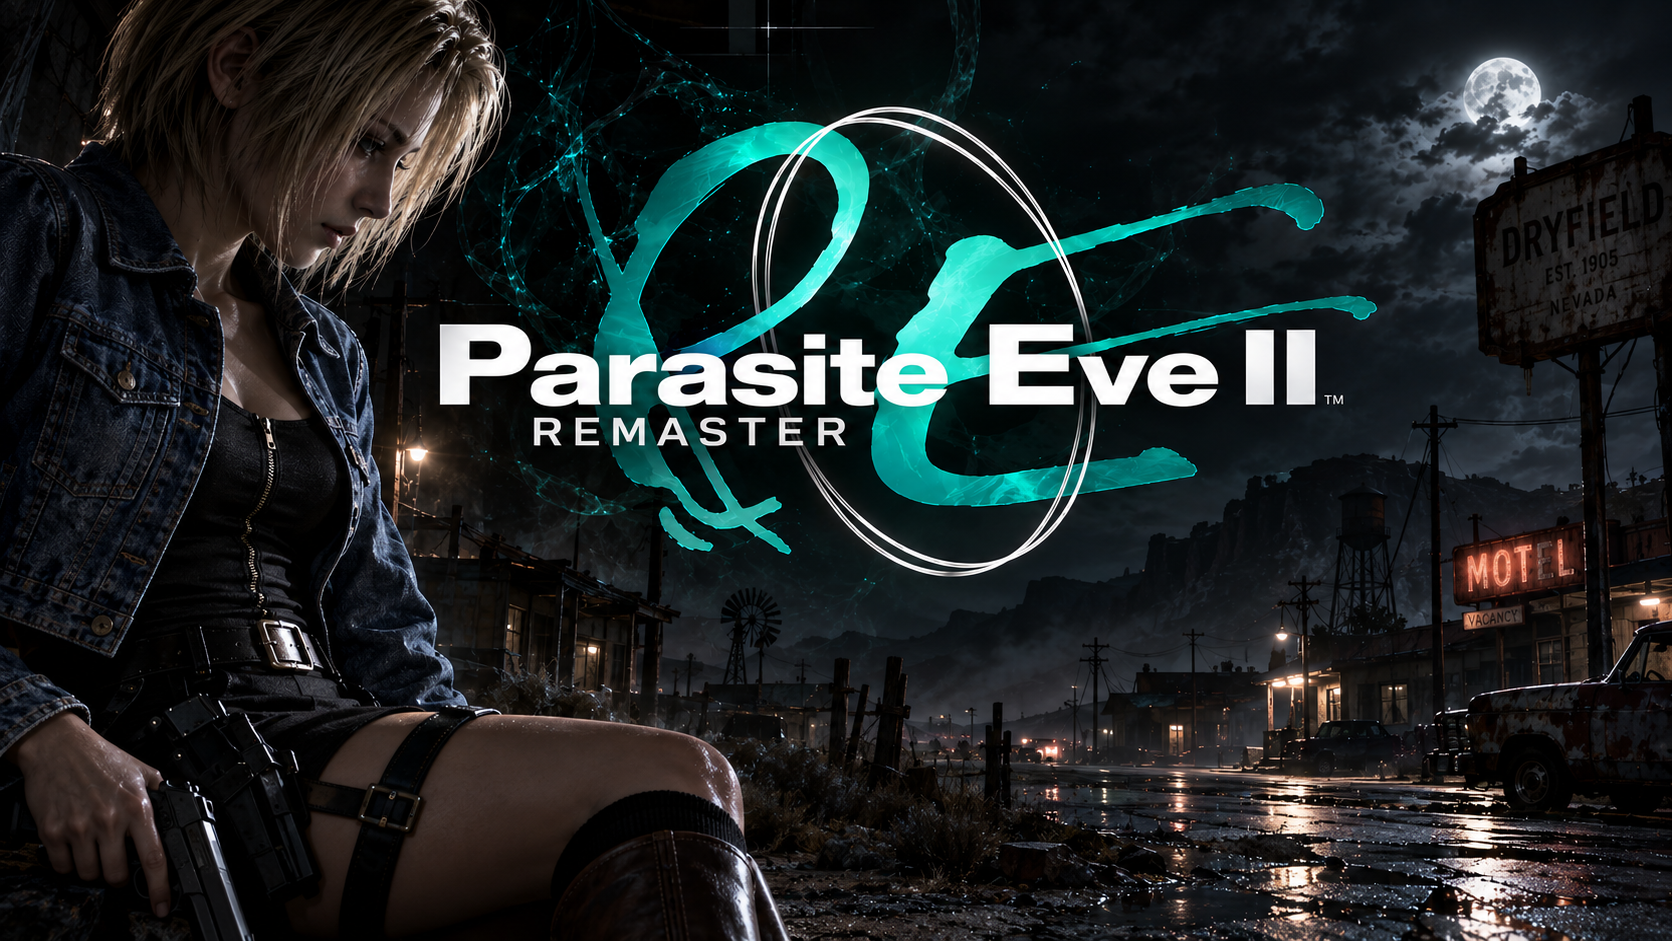
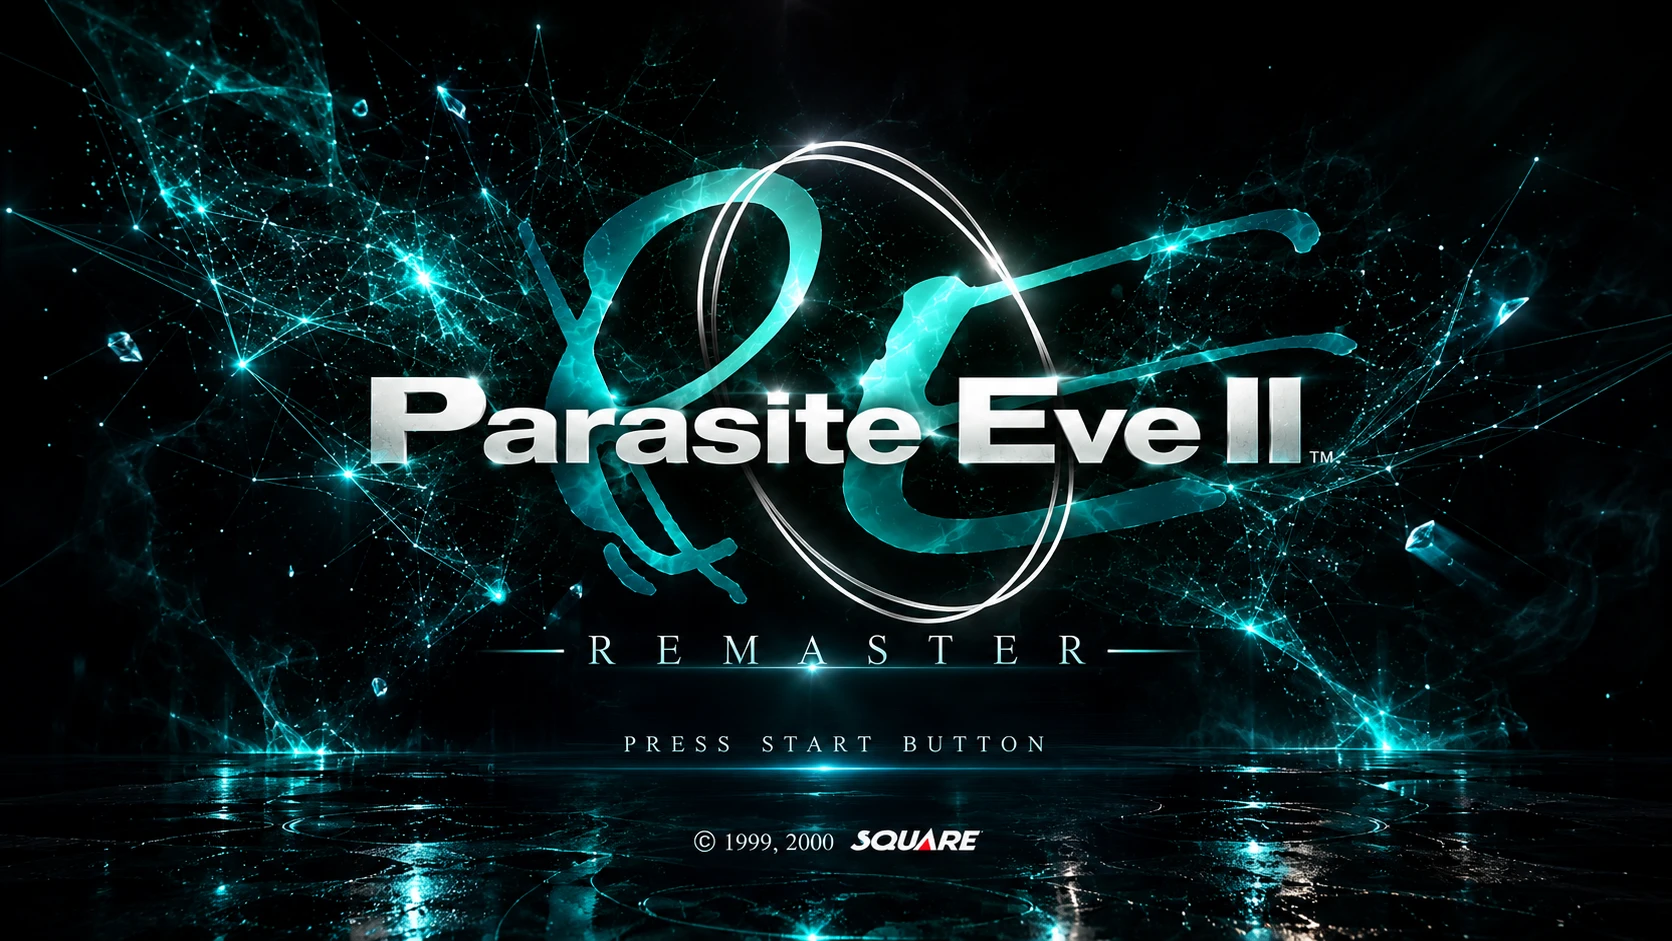
Replace the cover with the title screen and withdraw the character concept sheets

diff --git a/README.fr.md b/README.fr.md
@@ -1,8 +1,8 @@
 <p align="center">
-  <img src="media/cover.png" alt="Parasite Eve II Remaster — couverture conceptuelle avec Aya à Dryfield" width="100%">
+  <img src="media/cover.png" alt="Parasite Eve II Remaster — écran titre" width="100%">
 </p>
 
-<p align="center"><sub>Illustration conceptuelle générée par IA · Direction visuelle · Ce n’est pas une capture du jeu</sub></p>
+<p align="center"><sub>Écran titre</sub></p>
 
 <h1 align="center">PARASITE EVE II · REMASTER</h1>
 
@@ -125,21 +125,6 @@ L’armurerie, avec le même cadre 4:3 :
 [![Armurerie — 16:9 avec la zone de référence 4:3 délimitée](media/wide/mist-armoury-guide.png)](media/wide/mist-armoury-16x9.png)
 
 [Autres vues en 16:9 : les stands, la salle de surveillance, le sas →](docs/GALLERY.fr.md#autres-vues-en-169)
-
-## Direction visuelle
-
-La couverture et les fiches de personnages sont des **références conceptuelles générées par IA**, distinctes des captures Unreal. Elles explorent une direction artistique ; elles ne montrent pas des personnages terminés et animés dans le jeu. Dryfield sur la couverture est une illustration conceptuelle, pas une zone jouable présentée par cette alpha.
-
-<p align="center">
-  <a href="docs/CONCEPTS.fr.md#aya-brea--direction-visuelle"><img src="media/concepts/aya.png" alt="Aya Brea — fiche conceptuelle générée par IA" width="49%"></a>
-  <a href="docs/CONCEPTS.fr.md#pierce-carradine--direction-visuelle"><img src="media/concepts/pierce.png" alt="Pierce Carradine — fiche conceptuelle générée par IA" width="49%"></a>
-  <a href="docs/CONCEPTS.fr.md#jodie-bouquet--direction-visuelle"><img src="media/concepts/jodie.png" alt="Jodie Bouquet — fiche conceptuelle générée par IA" width="49%"></a>
-  <a href="docs/CONCEPTS.fr.md#créature--direction-visuelle"><img src="media/concepts/creature.png" alt="Créature — fiche conceptuelle générée par IA" width="49%"></a>
-</p>
-
-<p align="center"><sub>Aya · Pierce · Jodie · Créature — fiches conceptuelles générées par IA · Direction visuelle · Ce ne sont pas les personnages intégrés</sub></p>
-
-[Découvrir la galerie de concepts →](docs/CONCEPTS.fr.md)
 
 ## La suite
 

diff --git a/docs/ASSET_CREDITS.md b/docs/ASSET_CREDITS.md
@@ -2,9 +2,9 @@
 
 [Image notes](../NOTICE.md)
 
-The concept artwork was supplied by the project creator and generated with AI assistance. Engine screenshots show a work-in-progress scene with temporary Unreal mannequins; the pictures added in October 2026 show no character. The Akropolis volumes are modelled for this project. Most surfaces, signs, notices and printed documents in the scene are created for this project; the third-party resources below are visible in some of the images.
+The title screen on the cover was supplied by the project creator and generated with AI assistance. Engine screenshots show a work-in-progress scene with temporary Unreal mannequins; the pictures added in October 2026 show no character. The Akropolis volumes are modelled for this project. Most surfaces, signs, notices and printed documents in the scene are created for this project; the third-party resources below are visible in some of the images.
 
-*Les concepts ont été fournis par le créateur du projet et générés avec l’aide d’outils d’IA. Les captures du moteur montrent une scène en cours de développement avec des mannequins Unreal provisoires ; les images ajoutées en octobre 2026 ne montrent aucun personnage. Les volumes d’Akropolis sont modélisés pour ce projet. La plupart des surfaces, panneaux, affiches et documents imprimés sont créés pour ce projet ; les ressources tierces ci-dessous apparaissent dans certaines images.*
+*L’écran titre de la couverture a été fourni par le créateur du projet et généré avec l’aide d’outils d’IA. Les captures du moteur montrent une scène en cours de développement avec des mannequins Unreal provisoires ; les images ajoutées en octobre 2026 ne montrent aucun personnage. Les volumes d’Akropolis sont modélisés pour ce projet. La plupart des surfaces, panneaux, affiches et documents imprimés sont créés pour ce projet ; les ressources tierces ci-dessous apparaissent dans certaines images.*
 
 ## Weapon models / Modèles d’armes
 

diff --git a/README.md b/README.md
@@ -1,8 +1,8 @@
 <p align="center">
-  <img src="media/cover.png" alt="Parasite Eve II Remaster — Aya and Dryfield concept cover" width="100%">
+  <img src="media/cover.png" alt="Parasite Eve II Remaster — title screen" width="100%">
 </p>
 
-<p align="center"><sub>AI-generated concept artwork · Visual direction · Not an in-game screenshot</sub></p>
+<p align="center"><sub>Title screen</sub></p>
 
 <h1 align="center">PARASITE EVE II · REMASTER</h1>
 
@@ -125,21 +125,6 @@ The armoury, with the same 4:3 frame:
 [![Armoury — 16:9 with the 4:3 reference area outlined](media/wide/mist-armoury-guide.png)](media/wide/mist-armoury-16x9.png)
 
 [More widescreen views: the stands, the monitoring room, the airlock →](docs/GALLERY.md#more-widescreen-views)
-
-## Visual direction
-
-The cover and the character sheets are **AI-generated concept references**, separate from the Unreal captures. They explore a visual direction; they do not show completed, animated game characters. Dryfield on the cover is concept artwork, not a playable area demonstrated by this alpha.
-
-<p align="center">
-  <a href="docs/CONCEPTS.md#aya-brea--visual-direction"><img src="media/concepts/aya.png" alt="Aya Brea — AI-generated concept sheet" width="49%"></a>
-  <a href="docs/CONCEPTS.md#pierce-carradine--visual-direction"><img src="media/concepts/pierce.png" alt="Pierce Carradine — AI-generated concept sheet" width="49%"></a>
-  <a href="docs/CONCEPTS.md#jodie-bouquet--visual-direction"><img src="media/concepts/jodie.png" alt="Jodie Bouquet — AI-generated concept sheet" width="49%"></a>
-  <a href="docs/CONCEPTS.md#creature--visual-direction"><img src="media/concepts/creature.png" alt="Creature — AI-generated concept sheet" width="49%"></a>
-</p>
-
-<p align="center"><sub>Aya · Pierce · Jodie · Creature — AI-generated concept sheets · Visual direction · Not the implemented characters</sub></p>
-
-[Explore the concept gallery →](docs/CONCEPTS.md)
 
 ## What comes next
 

diff --git a/NOTICE.md b/NOTICE.md
@@ -4,7 +4,7 @@
 
 **Original work:** Parasite Eve II, its characters, names and original imagery belong to their respective creators and rights holders. This showcase does not distribute the original game, its executable or extracted asset libraries.
 
-**Concept artwork:** the cover and four character/creature sheets were supplied by the project creator and generated with AI assistance. They are visual references, not finished models or screenshots of implemented game content.
+**Title screen:** the cover image was supplied by the project creator and generated with AI assistance.
 
 **Engine captures:** selected images are rendered in Unreal Engine. The mannequins are temporary. Third-party models visible in the environment are credited with their authors, sources and licences in [docs/ASSET_CREDITS.md](docs/ASSET_CREDITS.md).
 
@@ -16,6 +16,6 @@
 
 Projet de fan indépendant et non officiel, sans affiliation ni approbation de Square Enix. Parasite Eve II, ses personnages, ses noms et ses images d’origine appartiennent à leurs créateurs et ayants droit respectifs.
 
-La couverture et les fiches sont des concepts générés avec l’aide d’outils d’IA. Les captures du prototype sont rendues dans Unreal Engine ; les modèles tiers visibles sont crédités, avec leurs auteurs, sources et licences, dans [docs/ASSET_CREDITS.md](docs/ASSET_CREDITS.md).
+L’écran titre de la couverture a été fourni par le créateur du projet et généré avec l’aide d’outils d’IA. Les captures du prototype sont rendues dans Unreal Engine ; les modèles tiers visibles sont crédités, avec leurs auteurs, sources et licences, dans [docs/ASSET_CREDITS.md](docs/ASSET_CREDITS.md).
 
 Cette vitrine ne distribue pas le jeu original ni une bibliothèque de ses ressources extraites. Elle n’accorde pas de licence générale sur les images ou les ressources tierces représentées.

diff --git a/CONTRIBUTING.md b/CONTRIBUTING.md
@@ -14,4 +14,4 @@ You do not need a game-development PC to offer useful feedback. This repository 
 
 Il n’est pas nécessaire de posséder un PC de développement pour contribuer avec des observations utiles. Ce dépôt est une vitrine ; les fichiers du jeu original, ressources extraites et exécutables ne sont pas acceptés dans les contributions.
 
-Keep feedback respectful and specific. A screenshot’s resolution is not a promise of gameplay performance. Character concepts and development captures have different purposes; refer to their captions.
+Keep feedback respectful and specific. A screenshot’s resolution is not a promise of gameplay performance. The title screen and development captures have different purposes; refer to their captions.

diff --git a/docs/PROGRESS.fr.md b/docs/PROGRESS.fr.md
@@ -97,7 +97,7 @@ C’est une expérimentation, pas une cinématique définitive.
 
 La base animée dans le laboratoire n’est qu’une doublure. Pour Aya elle-même, j’ai exploré plusieurs pistes : préparer des modèles de base, les retoucher dans Blender, puis les conformer sur une base de personnage riggée. La ressemblance, le visage, les cheveux, les vêtements, le rig facial et certaines déformations restent à finaliser.
 
-Ni la base provisoire ni la [fiche conceptuelle](CONCEPTS.fr.md#aya-brea--direction-visuelle) ne sont le modèle jouable définitif.
+La base provisoire n’est pas le modèle jouable définitif.
 
 ### Comment c’est vérifié
 

diff --git a/docs/PROGRESS.md b/docs/PROGRESS.md
@@ -97,7 +97,7 @@ It is an experiment, not a final cutscene.
 
 The base animated in the lab is only a stand-in. For Aya herself, I have explored several approaches: preparing base models, reworking them in Blender, and conforming them onto a rigged character base. Her likeness, face, hair, clothing, facial rig and some deformations are still to be finalised.
 
-Neither the temporary base nor the [concept sheet](CONCEPTS.md#aya-brea--visual-direction) is the playable final model.
+The temporary base is not the playable final model.
 
 ### How it is checked
 

diff --git a/docs/GALLERY.fr.md b/docs/GALLERY.fr.md
@@ -109,5 +109,3 @@ Chaque image est un rendu natif 16:9 depuis une caméra fixe d’origine. Le cad
 [![Sas-vestibule — 16:9 avec la zone de référence 4:3 délimitée](../media/wide/mist-vestibule-guide.png)](../media/wide/mist-vestibule-16x9.png)
 
 [capture native 16:9 3840 × 2160](../media/wide/mist-vestibule-16x9.png)
-
-Les illustrations conceptuelles sont réunies dans la [galerie de concepts](CONCEPTS.fr.md).

diff --git a/docs/GALLERY.md b/docs/GALLERY.md
@@ -109,5 +109,3 @@ Each image is a native 16:9 render at an original fixed camera. The green frame 
 [![Airlock vestibule — 16:9 with the 4:3 reference area outlined](../media/wide/mist-vestibule-guide.png)](../media/wide/mist-vestibule-16x9.png)
 
 [native 16:9 capture 3840 × 2160](../media/wide/mist-vestibule-16x9.png)
-
-Concept artwork is collected in the [separate concept gallery](CONCEPTS.md).
